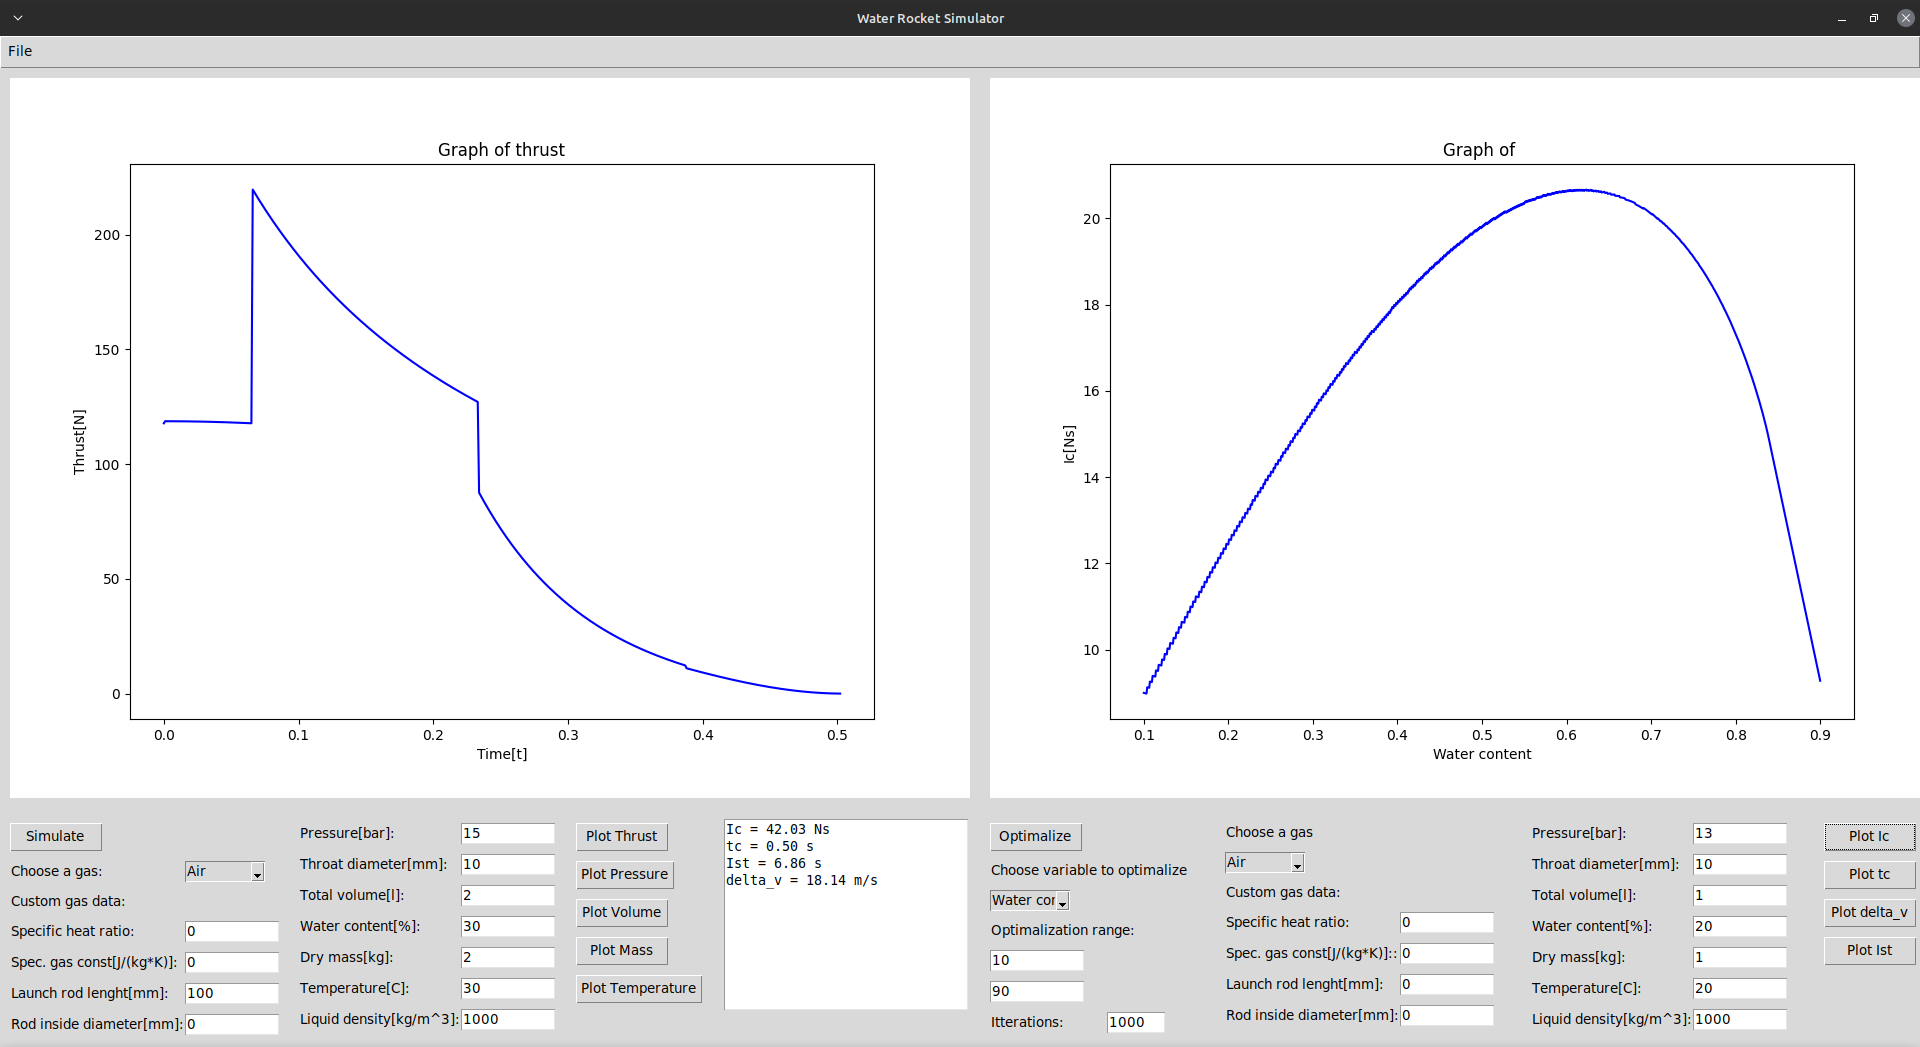
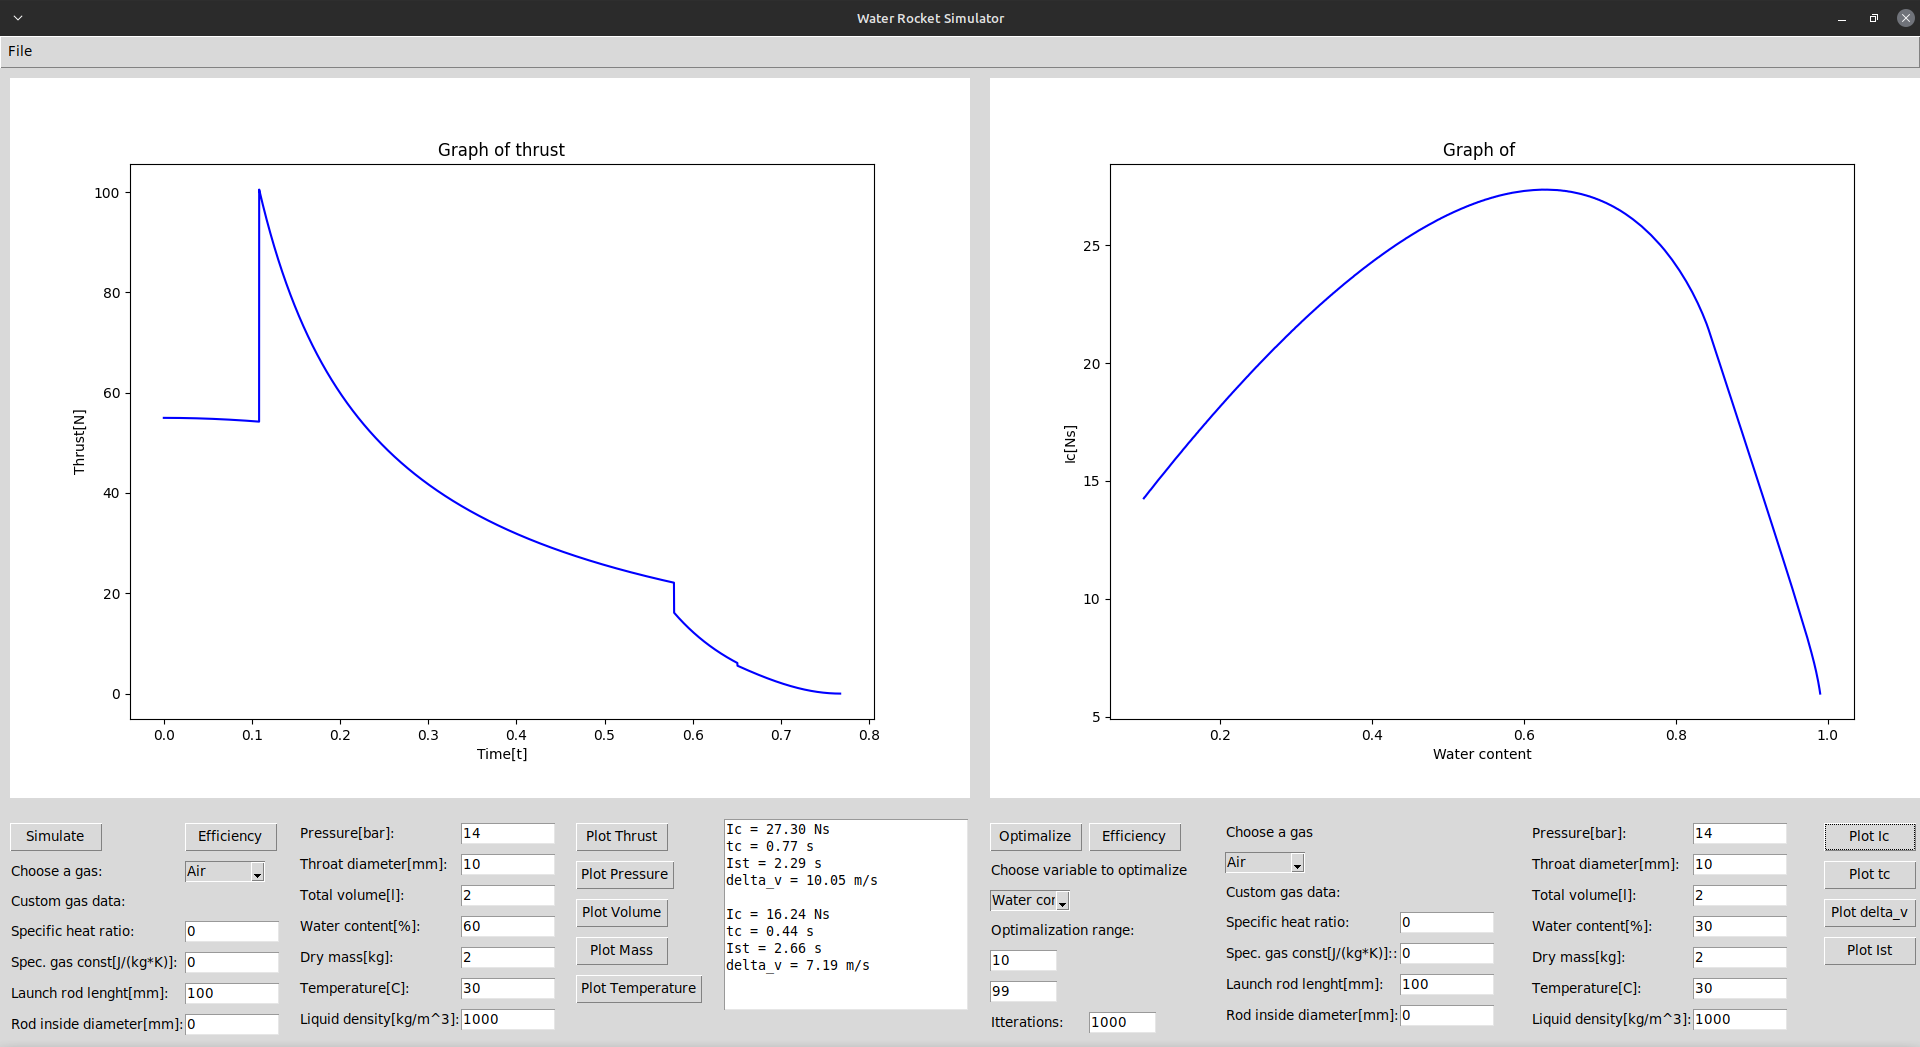
Implemented efficiency and fixed lauch rod plot jump bug

diff --git a/simulator.py b/simulator.py
@@ -36,6 +36,15 @@ engine_dry_mass = 0
 engine_full_mass = 0
 engine_manufacturer = ""
 
+# Efficiency data
+efficiency_sim_rod = 1
+efficiency_sim_water = 1
+efficiency_sim_gas = 1
+
+efficiency_opt_rod = 1
+efficiency_opt_water = 1
+efficiency_opt_gas = 1
+
 
 # SIMULATION FOR OPTIMALIZATION FUNCTION
 def opt_sim(k_const, Rs, water_density, P_ins, At, V_air, V_water, Roc_mass, T, rod_lenght, rod_inside_diameter):
@@ -52,18 +61,17 @@ def opt_sim(k_const, Rs, water_density, P_ins, At, V_air, V_water, Roc_mass, T, 
         s = float(0.0)
         vrod = float(0.0)
 
+        # V_air fix for existing rod
+        V_air = V_air - At * rod_lenght
+
         # Define adiabatic constant
         C_const = P_ins * pow(V_air, k_const)
         
-
         # Calculate mass of air
         mass_air = P_ins * V_air / (T * Rs)
         mass_propelant = mass_air + V_water * water_density
         total_time = 0
         #print(str(Roc_mass) + " " + str(mass_propelant))
-
-        # V_air fix for existing rod
-        V_air = V_air - At * rod_lenght
 
         if(rod_inside_diameter > 0 and rod_lenght > 0):
             while(s < rod_lenght):
@@ -71,7 +79,7 @@ def opt_sim(k_const, Rs, water_density, P_ins, At, V_air, V_water, Roc_mass, T, 
                 total_time = total_time + delta_t
 
                 # Calculate Ft and Ic
-                Ft = P_ins * At
+                Ft = P_ins * At * efficiency_opt_rod
                 
                 # Update impuls
                 Ic += Ft * delta_t
@@ -97,7 +105,7 @@ def opt_sim(k_const, Rs, water_density, P_ins, At, V_air, V_water, Roc_mass, T, 
                 #array_temperature.append(T)
 
                 # Calculate Ft and Ic
-                Ft = P_ins * At
+                Ft = P_ins * At * efficiency_opt_rod
                 #array_Ft.append(Ft)
                 Ic += Ft * delta_t
 
@@ -124,7 +132,7 @@ def opt_sim(k_const, Rs, water_density, P_ins, At, V_air, V_water, Roc_mass, T, 
             total_time = total_time + delta_t 
 
             # Calculate thurst
-            Ft = 2 * At * (P_ins - P_atm)
+            Ft = 2 * At * (P_ins - P_atm) * efficiency_opt_water
             #array_Ft.append(Ft)
             Ic += Ft * delta_t
 
@@ -176,7 +184,7 @@ def opt_sim(k_const, Rs, water_density, P_ins, At, V_air, V_water, Roc_mass, T, 
             ve_air = math.sqrt(k_const * Rs * Tt)
 
             P_throat = pow(2 / (k_const + 1), k_const / (k_const - 1)) * P_ins
-            Ft = dot_m * ve_air + At * (P_throat - P_atm)
+            Ft = (dot_m * ve_air + At * (P_throat - P_atm)) * efficiency_opt_gas
             array_Ft.append(Ft)
             Ic += Ft * delta_t
             
@@ -219,7 +227,7 @@ def opt_sim(k_const, Rs, water_density, P_ins, At, V_air, V_water, Roc_mass, T, 
 
             dot_m = At * density_throat * ve_air
 
-            Ft = dot_m * ve_air
+            Ft = dot_m * ve_air * efficiency_opt_gas
             #array_Ft.append(Ft)
             Ic += Ft * delta_t
 
@@ -302,6 +310,7 @@ def optimalize():
         T = float(entry_5_r.get())+273.15
         rod_lenght = float(entry_launch_lenght_opt.get()) * 0.001
         rod_inside_diameter = float(entry_launch_diameter_opt.get()) * 0.001
+
         
         # Error safety net
         if(P_ins <= 0):
@@ -679,6 +688,7 @@ def simulate():
         rod_lenght = float(entry_launch_lenght.get()) * 0.001
         rod_inside_diameter = float(entry_launch_diameter.get()) * 0.001
 
+
         # Error safety net
         if(P_ins <= 0):
             raise ValueError
@@ -708,19 +718,18 @@ def simulate():
         s = float(0.0)
         vrod = float(0.0)
 
+        # V_air fix for existing rod
+        V_air = V_air - At * rod_lenght
+
         # Define adiabatic constant
         C_const = P_ins * pow(V_air, k_const)
 
-        
         # Calculate mass of air
         mass_air = P_ins * V_air / (T * Rs)
         mass_propelant = mass_air + V_water * water_density
 
         Roc_mass = dry_mass + mass_propelant
         engine_full_mass = Roc_mass
-
-        # V_air fix for existing rod
-        V_air = V_air - At * rod_lenght
 
         if(rod_inside_diameter > 0 and rod_lenght > 0):
             while(s < rod_lenght):
@@ -736,7 +745,7 @@ def simulate():
                 array_temperature.append(T)
 
                 # Calculate Ft and Ic
-                Ft = P_ins * At
+                Ft = (P_ins * At) * efficiency_sim_rod
                 array_Ft.append(Ft)
                 Ic += Ft * delta_t
 
@@ -756,11 +765,11 @@ def simulate():
                 array_V_air.append(V_air)
                 array_V_water.append(V_water)
                 
-                array_pressure.append(P_ins)
                 array_temperature.append(T)
+                array_pressure.append(P_ins)
 
                 # Calculate Ft and Ic
-                Ft = P_ins * At
+                Ft = (P_ins * At) * efficiency_sim_rod
                 array_Ft.append(Ft)
                 Ic += Ft * delta_t
 
@@ -787,7 +796,7 @@ def simulate():
             total_time = total_time + delta_t 
 
             # Calculate thurst
-            Ft = 2 * At * (P_ins - P_atm)
+            Ft = (2 * At * (P_ins - P_atm)) * efficiency_sim_water
             array_Ft.append(Ft)
             Ic += Ft * delta_t
 
@@ -818,8 +827,8 @@ def simulate():
             V_water = V_water - delta_V
             
             # Calculate pressure and update array
-            array_pressure.append(P_ins)
             P_ins = C_const * pow(V_air, -k_const)
+            array_pressure.append(P_ins)
             
         # Loop for Mach 1 on exit
         while(P_ins > P_atm and P_ins/P_atm >= pow((k_const+1)/2, k_const/(k_const-1))):
@@ -839,7 +848,7 @@ def simulate():
             ve_air = math.sqrt(k_const * Rs * Tt)
             #print(str(ve_air))
             P_throat = pow(2 / (k_const + 1), k_const / (k_const - 1)) * P_ins
-            Ft = dot_m * ve_air + At * (P_throat - P_atm)
+            Ft = (dot_m * ve_air + At * (P_throat - P_atm)) * efficiency_sim_gas
             #print(str(Ft) + " " +str(At*(P_throat - P_atm)))
             array_Ft.append(Ft)
             Ic += Ft * delta_t
@@ -887,7 +896,7 @@ def simulate():
             dot_m = At * density_throat * ve_air
             #print(str(dot_m))
 
-            Ft = dot_m * ve_air
+            Ft = (dot_m * ve_air) * efficiency_sim_gas
             #print(str(Ft))
             array_Ft.append(Ft)
             Ic += Ft * delta_t
@@ -1260,6 +1269,109 @@ def save_to_export():
             for el_t, el_F in zip(array_time, array_Ft):
                 file.write(str(el_t) + " " + str(el_F) + "\n")
 
+def efficiency_sim_window():
+    entry_window = tk.Toplevel(root)
+    entry_window.title("Efficiency Simulation")
+
+    label_export_name = ttk.Label(entry_window, text="Launch rod efficiency:")
+    label_export_name.grid(row=0, column=0, columnspan=2, pady=5, sticky="w")
+
+    entry_export_name = ttk.Entry(entry_window, width=10)
+    entry_export_name.grid(row=0, column=2, pady=5)
+    entry_export_name.insert(0, str(efficiency_sim_rod))  # Initialize with a default value
+
+    label_export_diameter = ttk.Label(entry_window, text="Liquid phase efficiency:")
+    label_export_diameter.grid(row=1, column=0, columnspan=2, pady=5, sticky="w")
+
+    entry_export_diameter = ttk.Entry(entry_window, width=10)
+    entry_export_diameter.grid(row=1, column=2, pady=5)
+    entry_export_diameter.insert(0, str(efficiency_sim_water))  # Initialize with a default value
+
+    label_export_lenght = ttk.Label(entry_window, text="Gas phase efficiency:")
+    label_export_lenght.grid(row=2, column=0, columnspan=2, pady=5, sticky="w")
+
+    entry_export_lenght = ttk.Entry(entry_window, width=10)
+    entry_export_lenght.grid(row=2, column=2, pady=5)
+    entry_export_lenght.insert(0, str(efficiency_sim_gas))  # Initialize with a default value
+
+    ok_button = ttk.Button(entry_window, text="OK", command=lambda: efficiency_sim_save(entry_export_name, entry_export_diameter, entry_export_lenght, entry_window))
+    ok_button.grid(row=4, column=1, columnspan=2, pady=10)
+    
+def efficiency_sim_save(entry_export_name, entry_export_diameter, entry_export_lenght, window):
+    global efficiency_sim_rod
+    global efficiency_sim_water
+    global efficiency_sim_gas
+    
+    # Expect error
+    try:
+        efficiency_sim_rod = float(entry_export_name.get())
+        efficiency_sim_water = float(entry_export_diameter.get())
+        efficiency_sim_gas = float(entry_export_lenght.get())
+
+        if(efficiency_sim_rod <= 0 or efficiency_sim_water <= 0 or efficiency_sim_gas <= 0):
+            raise ValueError
+        if(efficiency_sim_rod > 100 or efficiency_sim_water > 100 or efficiency_sim_gas > 100):
+            raise ValueError
+        
+        window.destroy()
+    except ValueError:
+        messagebox.showinfo("Error", "Wrong input.")
+        efficiency_sim_rod = 1
+        efficiency_sim_water = 1
+        efficiency_sim_gas = 1
+
+def efficiency_opt_window():
+    entry_window = tk.Toplevel(root)
+    entry_window.title("Efficiency Optimalization")
+
+    label_export_name = ttk.Label(entry_window, text="Launch rod efficiency:")
+    label_export_name.grid(row=0, column=0, columnspan=2, pady=5, sticky="w")
+
+    entry_export_name = ttk.Entry(entry_window, width=10)
+    entry_export_name.grid(row=0, column=2, pady=5)
+    entry_export_name.insert(0, str(efficiency_opt_rod))  # Initialize with a default value
+
+    label_export_diameter = ttk.Label(entry_window, text="Liquid phase efficiency:")
+    label_export_diameter.grid(row=1, column=0, columnspan=2, pady=5, sticky="w")
+
+    entry_export_diameter = ttk.Entry(entry_window, width=10)
+    entry_export_diameter.grid(row=1, column=2, pady=5)
+    entry_export_diameter.insert(0, str(efficiency_opt_water))  # Initialize with a default value
+
+    label_export_lenght = ttk.Label(entry_window, text="Gas phase efficiency:")
+    label_export_lenght.grid(row=2, column=0, columnspan=2, pady=5, sticky="w")
+
+    entry_export_lenght = ttk.Entry(entry_window, width=10)
+    entry_export_lenght.grid(row=2, column=2, pady=5)
+    entry_export_lenght.insert(0, str(efficiency_opt_gas))  # Initialize with a default value
+
+    ok_button = ttk.Button(entry_window, text="OK", command=lambda: efficiency_opt_save(entry_export_name, entry_export_diameter, entry_export_lenght, entry_window))
+    ok_button.grid(row=4, column=1, columnspan=2, pady=10)
+    
+def efficiency_opt_save(entry_export_name, entry_export_diameter, entry_export_lenght, window):
+    global efficiency_opt_rod
+    global efficiency_opt_water
+    global efficiency_opt_gas
+    
+    # Expect error
+    try:
+        efficiency_opt_rod = float(entry_export_name.get())
+        efficiency_opt_water = float(entry_export_diameter.get())
+        efficiency_opt_gas = float(entry_export_lenght.get())
+
+        if(efficiency_opt_rod <= 0 or efficiency_opt_water <= 0 or efficiency_opt_gas <= 0):
+            raise ValueError
+        if(efficiency_opt_rod > 100 or efficiency_opt_water > 100 or efficiency_opt_gas > 100):
+            raise ValueError
+        
+        window.destroy()
+    except ValueError:
+        messagebox.showinfo("Error", "Wrong input.")
+        efficiency_opt_rod = 1
+        efficiency_opt_water = 1
+        efficiency_opt_gas = 1
+
+
 
 # Create the main Tkinter window
 root = tk.Tk()
@@ -1290,7 +1402,10 @@ frame_simulate = ttk.Frame(root, padding="10")
 frame_simulate.grid(row=1, column=0, sticky=(tk.W, tk.E, tk.N, tk.S))
 
 simulate_button = ttk.Button(frame_simulate, text="Simulate", command=simulate)
-simulate_button.grid(row=0, column=0, columnspan=2, pady=5, sticky="w")
+simulate_button.grid(row=0, column=0, columnspan=1, pady=5, sticky="w")
+
+efficiency_button = ttk.Button(frame_simulate, text="Efficiency", command=efficiency_sim_window)
+efficiency_button.grid(row=0, column=2, columnspan=1, pady=5, sticky="w")
 
 # Create a label for displaying the selected option
 label_gas = ttk.Label(frame_simulate, text="Choose a gas:")
@@ -1460,11 +1575,11 @@ combobox_variable_opt.grid(row=2, column=0, columnspan=2, pady=5, sticky="w")
 label_opt_range = ttk.Label(frame_simulate_r, text="Optimalization range:")
 label_opt_range.grid(row=3, column=0, columnspan=2, pady=5, sticky="w")
 
-entry_opt_min = ttk.Entry(frame_simulate_r, width=10)
+entry_opt_min = ttk.Entry(frame_simulate_r, width=7)
 entry_opt_min.grid(row=4, column=0, sticky="w", pady=5)
 entry_opt_min.insert(0, "min")  # Initialize with a default value
 
-entry_opt_max = ttk.Entry(frame_simulate_r, width=10)
+entry_opt_max = ttk.Entry(frame_simulate_r, width=7)
 entry_opt_max.grid(row=5, column=0, sticky="w", pady=5)
 entry_opt_max.insert(0, "max")  # Initialize with a default value
 
@@ -1472,9 +1587,12 @@ entry_opt_max.insert(0, "max")  # Initialize with a default value
 label_opt_itteration = ttk.Label(frame_simulate_r, text="Itterations:")
 label_opt_itteration.grid(row=6, column=0, columnspan=2, pady=5, sticky="w")
 
-entry_opt_itteration = ttk.Entry(frame_simulate_r, width=6)
+entry_opt_itteration = ttk.Entry(frame_simulate_r, width=7)
 entry_opt_itteration.grid(row=6, column=1, sticky="w", pady=5)
 entry_opt_itteration.insert(0, "1")  # Initialize with a default value
+
+efficiency_button = ttk.Button(frame_simulate_r, text="Efficiency", command=efficiency_opt_window)
+efficiency_button.grid(row=0, column=1, columnspan=2, pady=5, sticky="w")
 
 # 2nd frame on right
 frame_overall_data_right = ttk.Frame(root, padding="10")

diff --git a/README.md b/README.md
@@ -35,6 +35,9 @@ Here's a picture that shows how the program works:
 6. **Save and Load Projects:**
    Keep your work organized by easily saving and loading your projects.
 
+7. **Efficiency coefficients**
+   Implement empirically determined efficiency coefficients, set different values for each distinct phase.
+
 These features all come together to make a simulator for a compressed gas and liquid engine. It helps you figure out and control engine values in efficient and visually informative way.
 
 ## Prerequisites
